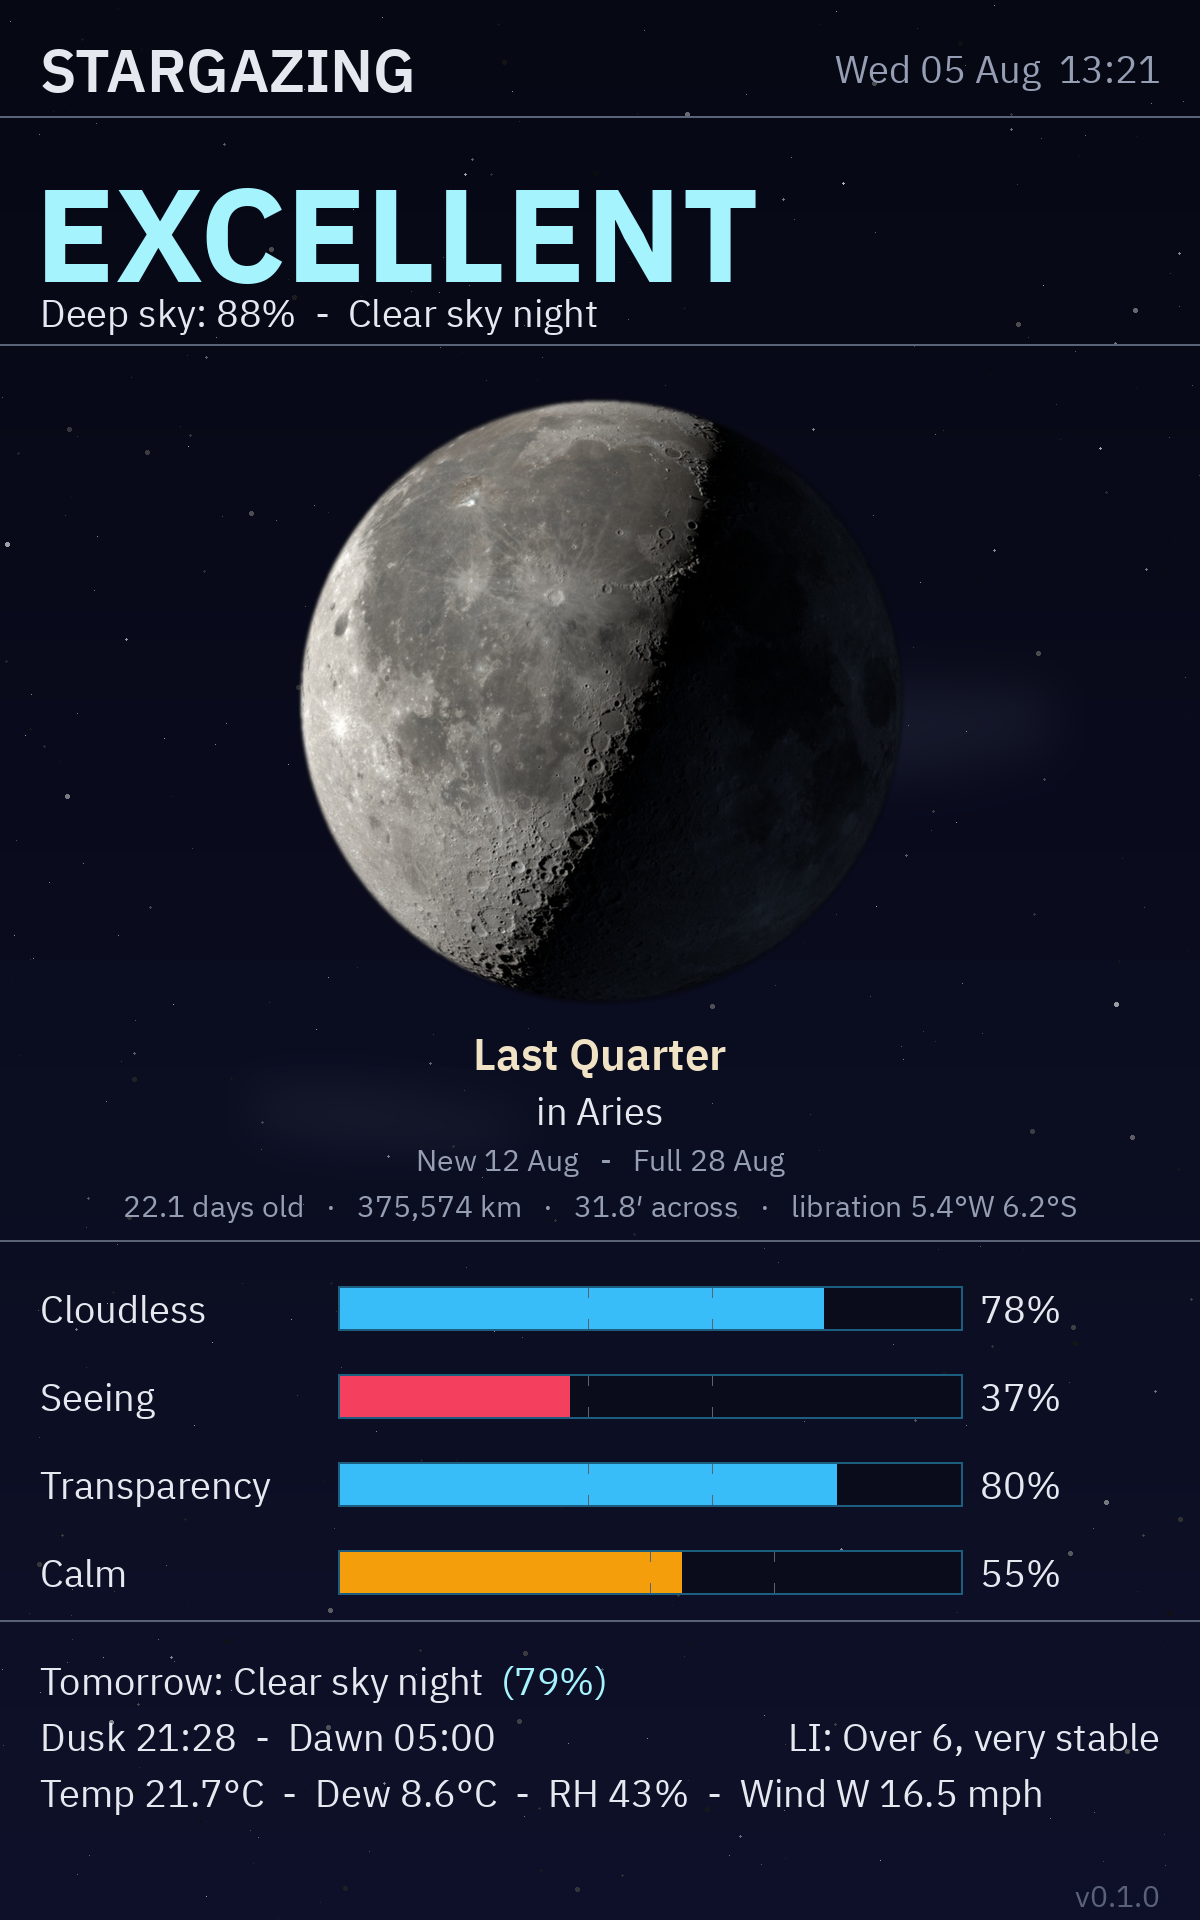
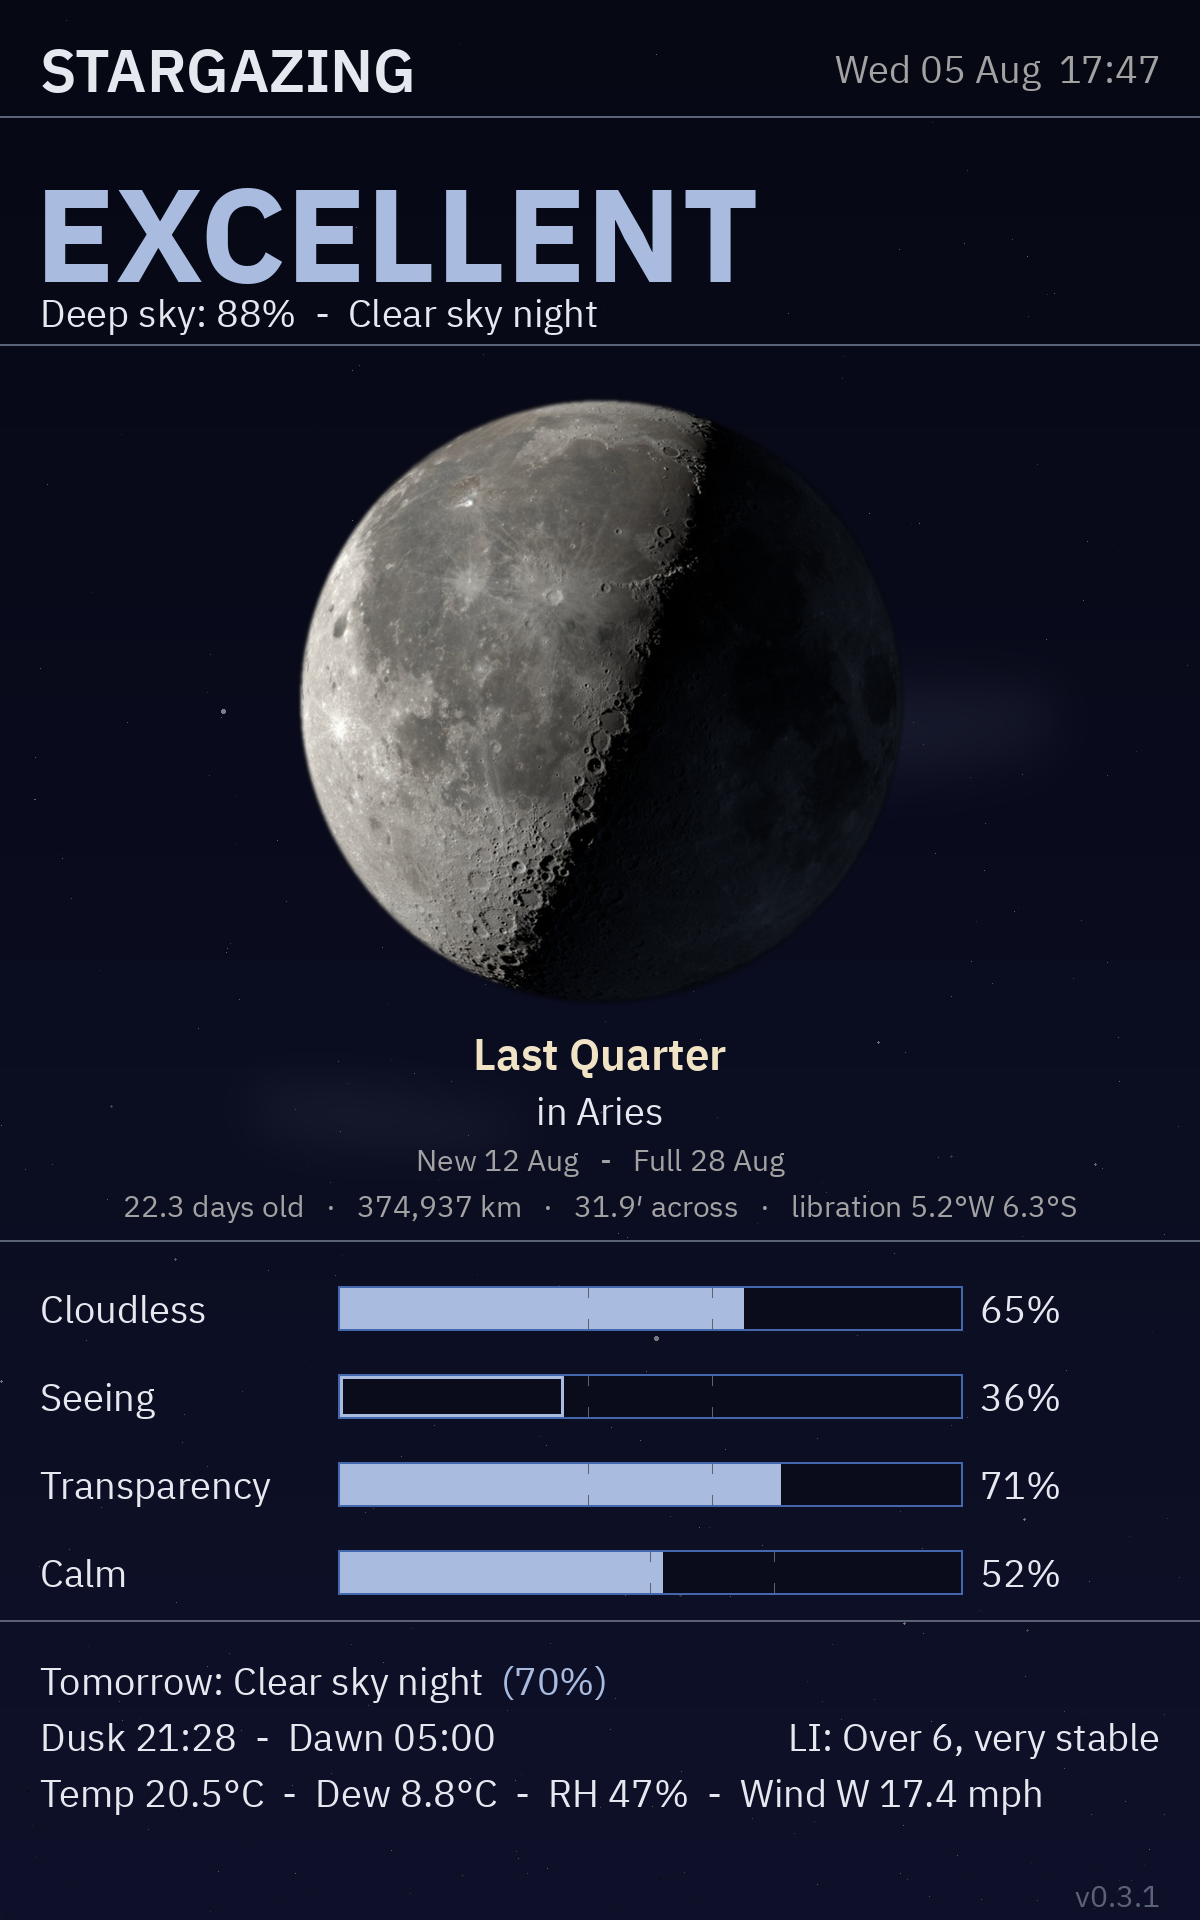
Regenerate screenshots; keep the meteor bar filled
All six README images still showed the retired ramp, and the conditions
alt text described "a large FAIR verdict in amber" that no longer exists.
Re-rendered from the working tree against live data, and the alt text now
matches what each image actually shows.

Regenerating them caught a regression the palette commit introduced. The
hollow convention had been applied to the meteor rate bars for the sake of
one rule everywhere, but there is no threshold there worth acting on:
observed rates are low single digits on almost every night, so nearly
every bar was hollow, and at a few pixels wide an outline degenerates into
a small empty box that reads as a rendering fault. Filled again, with the
reason recorded next to it. The conditions and deep-sky bars keep it,
because 40-50% of a 0-100 scale is a threshold someone acts on.

The red-mode screenshot is the useful one: the hollow Seeing bar is
exactly as legible with the hue gone, which is the whole claim.

diff --git a/build10/display.py b/build10/display.py
@@ -57,7 +57,7 @@ from core.touch import TouchReader
 from core.values import _dt, _f, _i, _phrase, load_config
 from core.weather import KMH_TO_MPH, compare_sources, make_fetcher
 
-VERSION = "0.3.0"
+VERSION = "0.3.1"
 
 # The largest image this program legitimately opens is a 730x730 moon frame.
 # PIL's default decompression-bomb threshold (~178M pixels) would let a hostile
@@ -749,12 +749,14 @@ def render_meteors(states, lat, lon):
         draw.rectangle([MARGIN, by, MARGIN + MET_BAR_W, by + MET_BAR_H], fill=BG)
         frac = max(0.0, min(1.0, rate / MET_RATE_FULL))
         if frac > 0:
-            box = [MARGIN, by, MARGIN + max(2, int(MET_BAR_W * frac)),
-                   by + MET_BAR_H]
-            if rate >= 10:
-                draw.rectangle(box, fill=NOMINAL)
-            else:
-                draw.rectangle(box, outline=NOMINAL, width=2)
+            # Always filled, unlike the conditions and deep-sky bars. The hollow
+            # convention marks a reading short of a threshold worth acting on,
+            # and there is no such threshold here: observed rates are low single
+            # digits on almost every night, so nearly every bar would be hollow,
+            # and at a few pixels wide an outline degenerates into a small empty
+            # box that reads as a rendering fault. The rate is printed beside it.
+            draw.rectangle([MARGIN, by, MARGIN + max(2, int(MET_BAR_W * frac)),
+                            by + MET_BAR_H], fill=NOMINAL)
         draw.text((MARGIN + MET_BAR_W + 20, by - 4),
                   f"~{rate:.0f}/hr", font=f["med"],
                   fill=WHITE if rate >= 1 else DIM)

diff --git a/README.md b/README.md
@@ -36,7 +36,7 @@ Two pages rotate over the same continuous animated sky. Both shots are real fram
 
 **Page 1 — tonight's conditions**
 
-![The conditions page: a large FAIR verdict in amber, four labelled condition bars with percentages, and a photographic waning gibbous Moon captioned Waning Gibbous in Pisces. A footer gives tomorrow's forecast, lifted index, temperature, dew point, humidity and wind.](screenshots/conditions.png)
+![The conditions page: a large EXCELLENT verdict in pale blue-white, four labelled condition bars with percentages, and a photographic last-quarter Moon captioned Last Quarter in Aries. The Seeing bar reads 36% and is drawn as a hollow outline rather than filled, because it falls below its warning mark; the other three are filled. A footer gives tomorrow's forecast, lifted index, temperature, dew point, humidity and wind.](screenshots/conditions.png)
 
 > **Dusk / Dawn** in that footer, not sunrise/sunset: AstroWeather's sun rise/set entities report **civil twilight** bounds (sun 6° below the horizon), ~40 min off the geometric sun crossing. True darkness is tracked separately (`astronomical_night_duration`) and drives the "NO DARK SKY" state.
 
@@ -48,7 +48,7 @@ The page-2 timeline only appears once UpTonight has run, and the page leaves the
 
 **Night mode — the same page after dark**
 
-![The conditions page in red night mode: the identical layout rendered entirely in shades of red on black, including the photograph of the Moon. The verdict, the condition bars, the percentages and the footer are all still legible; only hue has gone.](screenshots/night-red.png)
+![The conditions page in red night mode: the identical layout rendered entirely in shades of red on black, including the photograph of the Moon. The verdict, the condition bars, the percentages and the footer are all still legible, and the hollow Seeing bar still reads as hollow; only hue has gone.](screenshots/night-red.png)
 
 Between real dusk and dawn — not on a clock schedule — the finished frame is put through a red filter, because long wavelengths leave dark-adapted vision alone. Filtering the frame rather than swapping the palette is what keeps the lunar photograph and the deep-sky cutouts from glowing white, and it costs nothing measurable: the transform runs on the array the framebuffer path already builds.
 
@@ -68,7 +68,7 @@ Portrait, 2.5× the pixels at slightly lower density, so the space goes on conte
 
 **Page 1 — conditions.** The Moon takes the middle band at 600px across; the source frame is 730px, so this is close to native rather than an enlargement. Under it are the numbers that come with the frame and used to be discarded — age, distance, apparent diameter, and libration as the direction the near side is tipped.
 
-![The 10.1-inch conditions page in portrait: a large EXCELLENT verdict, a 600-pixel photograph of a last-quarter Moon captioned Last Quarter in Aries with its age, distance, diameter and libration, four condition bars, and a footer of forecast, dusk and dawn times and weather.](screenshots/10in-conditions.png)
+![The 10.1-inch conditions page in portrait: a large EXCELLENT verdict, a 600-pixel photograph of a last-quarter Moon captioned Last Quarter in Aries with its age, distance, diameter and libration, four condition bars with the below-threshold Seeing bar drawn hollow, and a footer of forecast, dusk and dawn times and weather.](screenshots/10in-conditions.png)
 
 **Page 2 — targets.** One altitude-versus-bearing plot carries the planets *and* the deep-sky objects on a full 0–90° axis. The 5" build cannot do this: its objects peak at 70–85° while the planets sit below 35°, and one axis holding both would squash the planets flat. Positions are computed for a single stated instant rather than read from the report files, which are written hours apart.
 
@@ -76,7 +76,7 @@ Portrait, 2.5× the pixels at slightly lower density, so the space goes on conte
 
 **Page 3 — meteors.** Which showers are actually running, from a table of orbital constants indexed by solar longitude, with the rate an observer would really count once radiant altitude, cloud and moonlight are accounted for.
 
-![The 10.1-inch meteor page: solar longitude 133.2 degrees, with Delta Aquariids 8 degrees past peak and Perseids peaking in 7 days, each showing radiant altitude and bearing and an estimated rate of about one per hour, plus a sporadic background figure.](screenshots/10in-meteors.png)
+![The 10.1-inch meteor page: solar longitude 133.2 degrees, with Southern Delta Aquariids 6 degrees past peak and Perseids peaking in 7 days, each showing radiant altitude and bearing and an estimated rate of one to two per hour against its zenithal hourly rate at peak, plus a sporadic background of about two per hour.](screenshots/10in-meteors.png)
 
 ---
 
